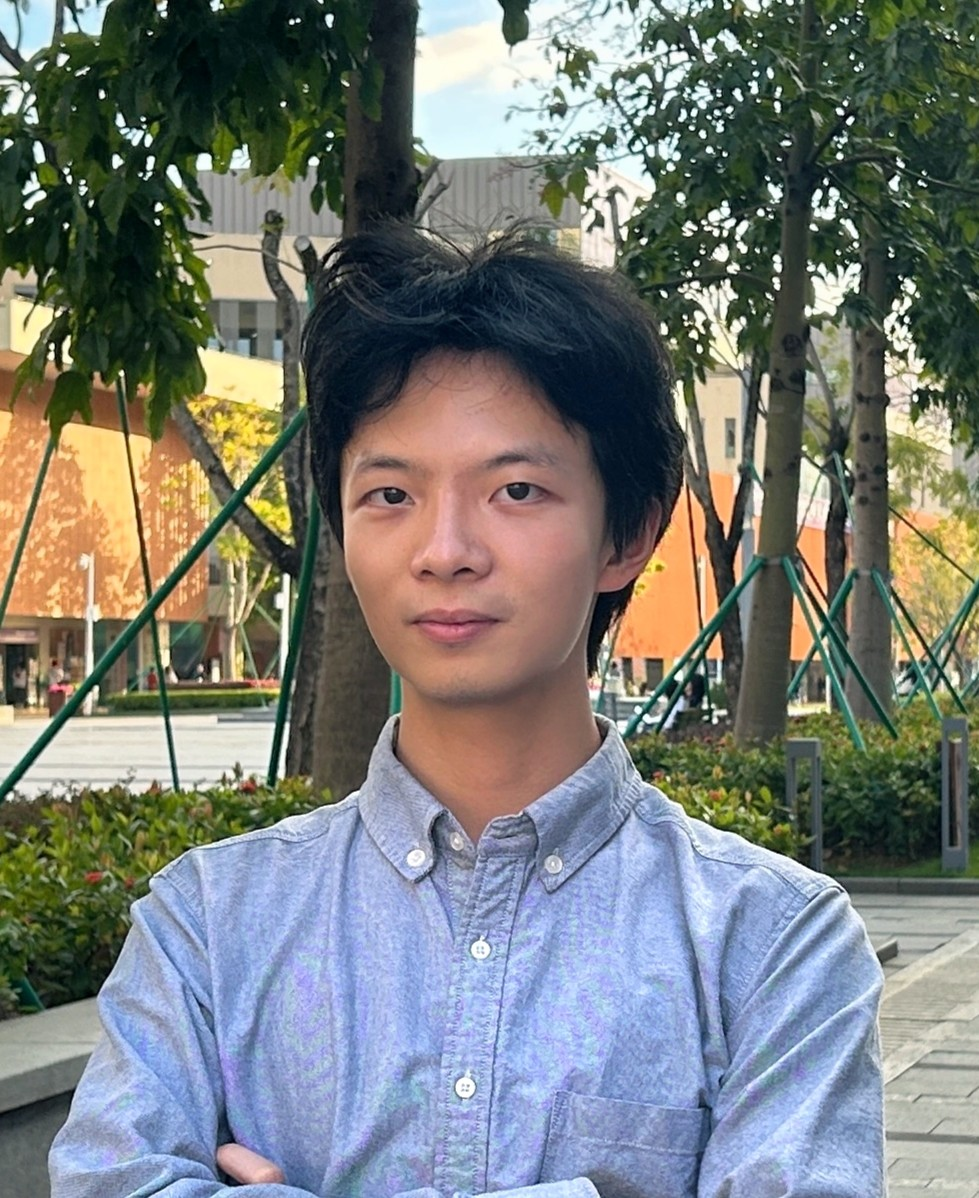
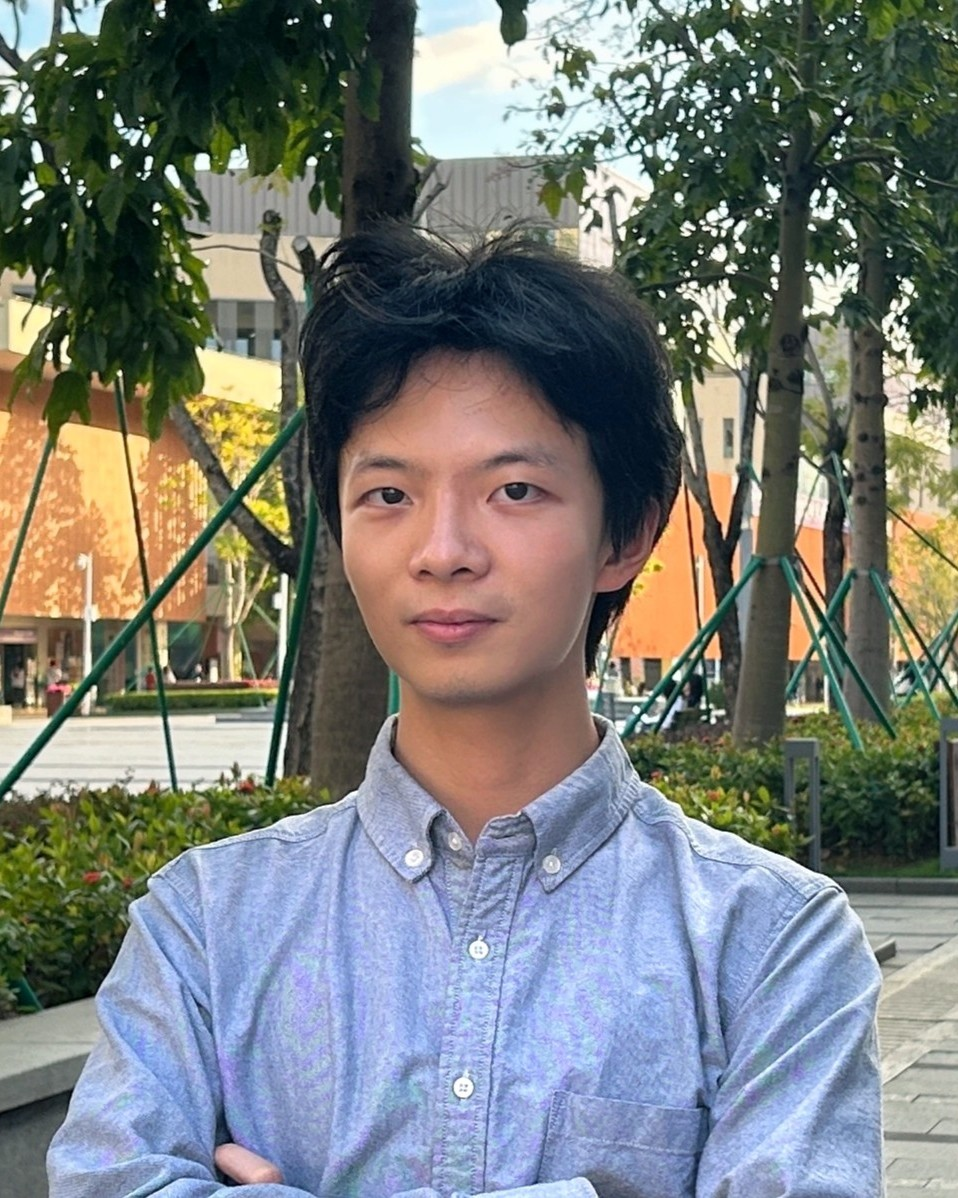
photo2

diff --git a/docs/index.md b/docs/index.md
@@ -17,7 +17,7 @@ import { withBase } from 'vitepress'
 
 <div class="profile-header">
   <div class="profile-photo">
-    <img :src="withBase('/photo3.jpg')" alt="Bingran Li" />
+    <img :src="withBase('/photo2.jpg')" alt="Bingran Li" />
   </div>
   <div class="profile-info">
     <h1>Bingran Li (李炳然)</h1>
